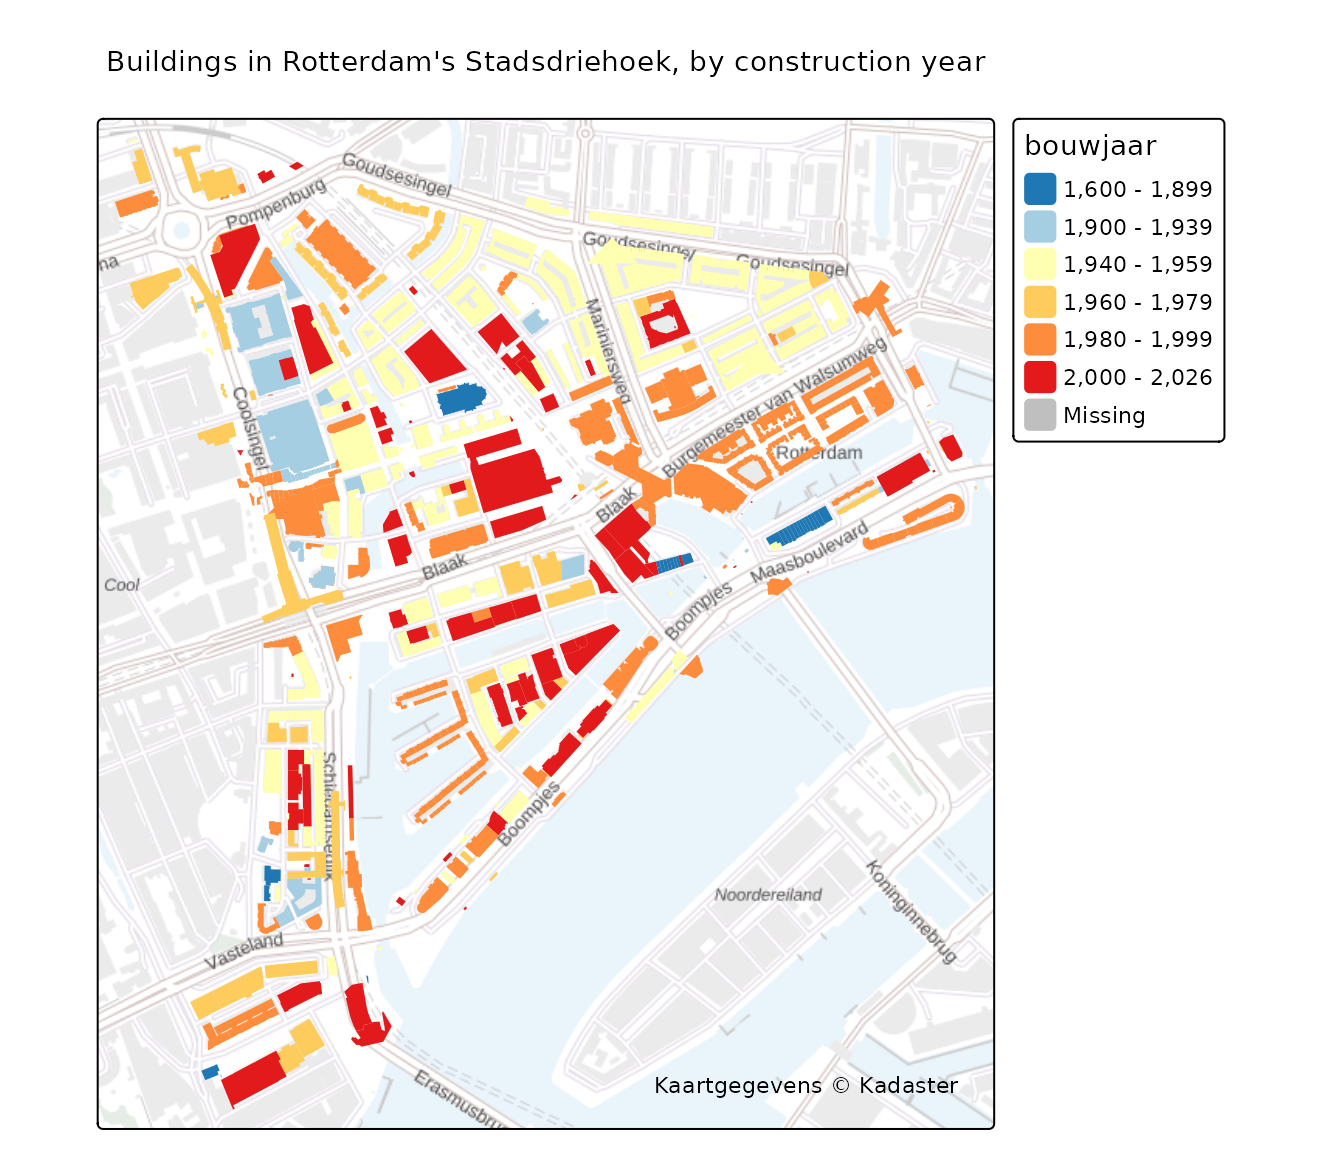
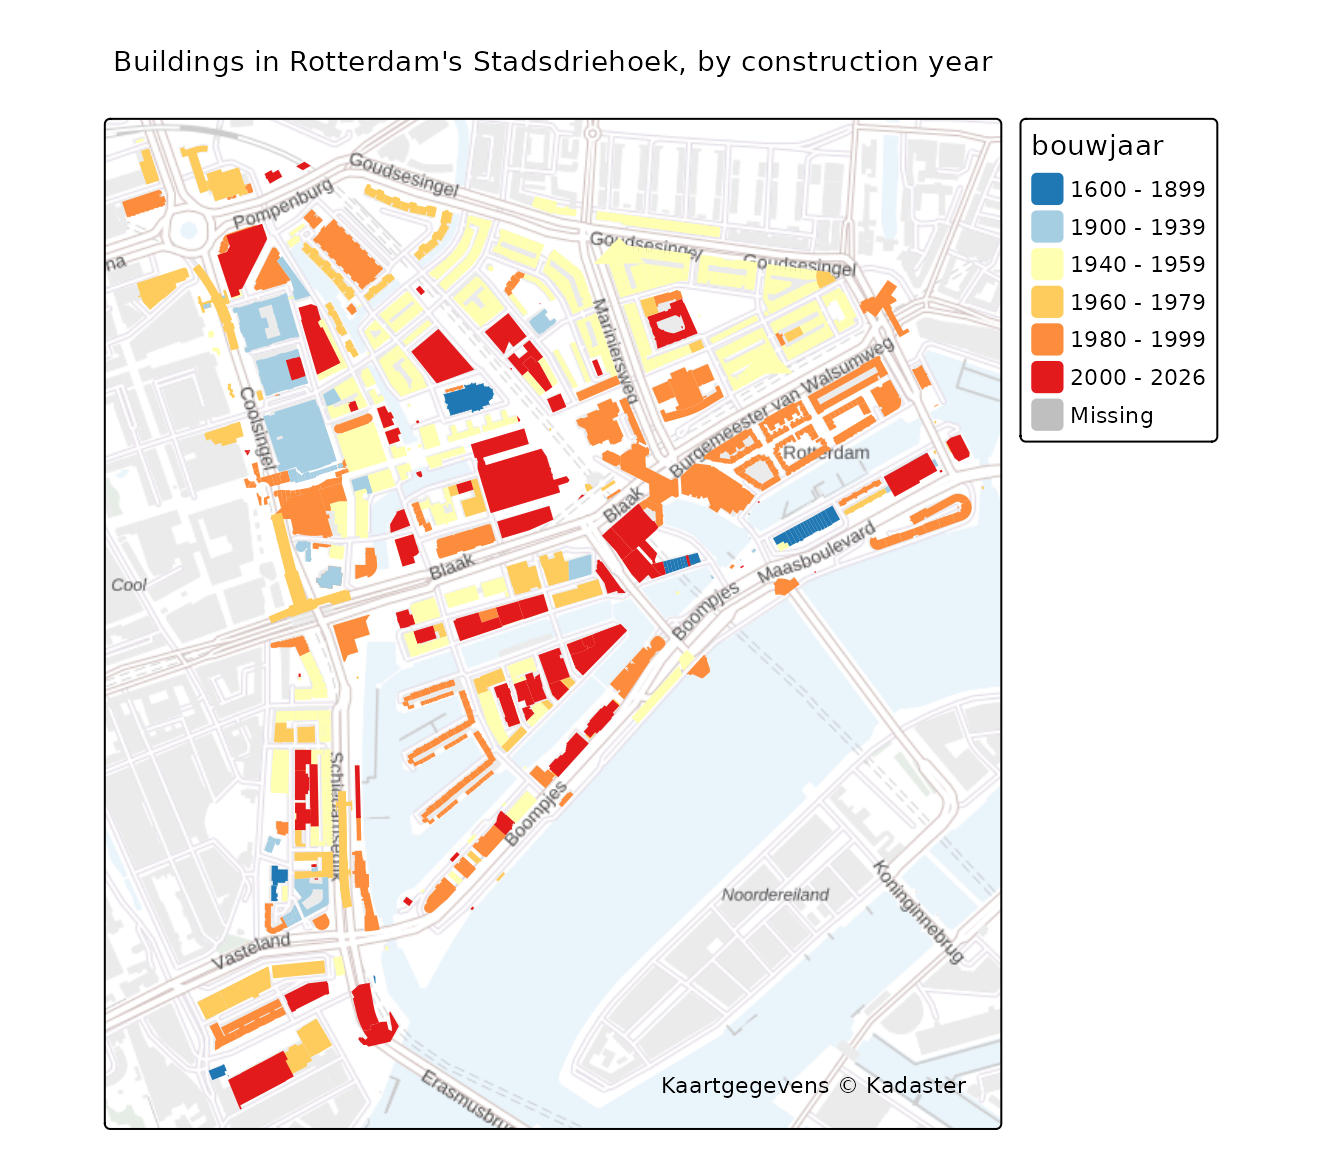
Deploying to gh-pages from @ coeneisma/pdokr@1620781350fbcb946c409823c2ba1a93d272ff82 🚀

diff --git a/reference/pdok_filter_by.html b/reference/pdok_filter_by.html
@@ -85,7 +85,8 @@ area of interest.</p></dd>
 <dt id="arg-predicate">predicate<a class="anchor" aria-label="anchor" href="#arg-predicate"></a></dt>
 <dd><p>The spatial relationship to test, one of <code>"intersects"</code>,
 <code>"within"</code>, <code>"contains"</code>, <code>"overlaps"</code>, <code>"touches"</code>, <code>"crosses"</code>,
-<code>"covers"</code>, <code>"covered_by"</code>, or <code>"disjoint"</code>.</p></dd>
+<code>"covers"</code>, <code>"covered_by"</code>, or <code>"disjoint"</code>. See the <em>Spatial predicates</em>
+section below, and <a href="https://r-spatial.github.io/sf/reference/geos_binary_pred.html" class="external-link">sf::geos_binary_pred</a> for the full definitions.</p></dd>
 
 </dl></div>
     <div class="section level2">
@@ -102,9 +103,31 @@ water-authority area, a hand-drawn polygon, or another PDOK layer.</p>
 (after matching CRS); use that if you prefer to drop down to <code>sf</code>.</p>
     </div>
     <div class="section level2">
+    <h2 id="spatial-predicates">Spatial predicates<a class="anchor" aria-label="anchor" href="#spatial-predicates"></a></h2>
+
+
+<p>The <code>predicate</code> selects <em>how</em> a feature must relate to <code>filter_geometry</code> to be
+kept. Each value calls the matching <code>sf</code> predicate function <code>sf::st_&lt;predicate&gt;()</code>
+(so <code>"within"</code> uses <code><a href="https://r-spatial.github.io/sf/reference/geos_binary_pred.html" class="external-link">sf::st_within()</a></code>, <code>"intersects"</code> uses <code><a href="https://r-spatial.github.io/sf/reference/geos_binary_pred.html" class="external-link">sf::st_intersects()</a></code>,
+and so on). The common choices:</p><ul><li><p><code>"intersects"</code> (default) — the feature touches <code>filter_geometry</code> in any way
+(overlaps, is inside, or shares a boundary). The most permissive; the usual
+choice for "everything in this area".</p></li>
+<li><p><code>"within"</code> — the feature lies <em>entirely inside</em> <code>filter_geometry</code>. Use this
+to exclude features that only stick partly into the area.</p></li>
+<li><p><code>"contains"</code> — the feature entirely <em>encloses</em> <code>filter_geometry</code> (the
+inverse of <code>"within"</code>).</p></li>
+<li><p><code>"disjoint"</code> — the feature does <em>not</em> touch <code>filter_geometry</code> at all
+(everything outside the area).</p></li>
+</ul><p><code>"overlaps"</code>, <code>"touches"</code>, <code>"crosses"</code>, <code>"covers"</code> and <code>"covered_by"</code> are the
+remaining, more specialised DE-9IM relationships. For the precise definition
+of each, see the <code>sf</code> help page <a href="https://r-spatial.github.io/sf/reference/geos_binary_pred.html" class="external-link">sf::geos_binary_pred</a> (the topic that
+documents <code>st_intersects()</code>, <code>st_within()</code>, and the rest).</p>
+    </div>
+    <div class="section level2">
     <h2 id="see-also">See also<a class="anchor" aria-label="anchor" href="#see-also"></a></h2>
-    <div class="dont-index"><p><code><a href="pdok_read.html">pdok_read()</a></code>, whose <code>filter_by</code> argument applies this filter while
-loading.</p></div>
+    <div class="dont-index"><p><a href="https://r-spatial.github.io/sf/reference/geos_binary_pred.html" class="external-link">sf::geos_binary_pred</a> for the definition of each spatial predicate;
+<code><a href="https://r-spatial.github.io/sf/reference/st_join.html" class="external-link">sf::st_filter()</a></code>, the <code>sf</code> filter this wraps; and <code><a href="pdok_read.html">pdok_read()</a></code>, whose
+<code>filter_by</code> argument applies this filter while loading.</p></div>
     </div>
 
     <div class="section level2">

diff --git a/articles/filtering-by-area.html b/articles/filtering-by-area.html
@@ -184,10 +184,17 @@ reuse the pre-filtered data or apply a different spatial predicate.</p>
 <span><span class="co">#&gt; [1] "Lauwersmeer"        "Schiermonnikoog"    "De Alde Feanen"    </span></span>
 <span><span class="co">#&gt; [4] "Drents-Friese Wold"</span></span></code></pre></div>
 <p><code><a href="../reference/pdok_filter_by.html">pdok_filter_by()</a></code> reconciles coordinate reference systems
-for you and accepts a <code>predicate</code> (<code>"intersects"</code>
-by default, but also <code>"within"</code>, <code>"contains"</code>, and
-more). The plain-<code>sf</code> equivalent, once both objects share a
-CRS, is:</p>
+for you and accepts a <code>predicate</code> that sets <em>how</em> a
+feature must relate to the area to be kept: <code>"intersects"</code>
+(the default — touching the area in any way), <code>"within"</code>
+(lying entirely inside it), <code>"contains"</code>,
+<code>"disjoint"</code> (everything outside), and the more specialised
+<code>"overlaps"</code>, <code>"touches"</code>, <code>"crosses"</code>,
+<code>"covers"</code> and <code>"covered_by"</code>. Each maps to the
+matching <code>sf</code> function
+<code>sf::st_&lt;predicate&gt;()</code>; see <a href="https://r-spatial.github.io/sf/reference/geos_binary_pred.html" class="external-link"><code>?sf::geos_binary_pred</code></a>
+for the precise definition of each. The plain-<code>sf</code>
+equivalent, once both objects share a CRS, is:</p>
 <div class="sourceCode" id="cb7"><pre class="downlit sourceCode r">
 <code class="sourceCode R"><span><span class="va">fryslan_ll</span> <span class="op">&lt;-</span> <span class="fu">sf</span><span class="fu">::</span><span class="fu"><a href="https://r-spatial.github.io/sf/reference/st_transform.html" class="external-link">st_transform</a></span><span class="op">(</span><span class="va">fryslan</span>, <span class="fu">sf</span><span class="fu">::</span><span class="fu"><a href="https://r-spatial.github.io/sf/reference/st_crs.html" class="external-link">st_crs</a></span><span class="op">(</span><span class="va">parks_in_bbox</span><span class="op">)</span><span class="op">)</span></span>
 <span><span class="va">parks_in_bbox</span><span class="op">[</span><span class="va">fryslan_ll</span>, , op <span class="op">=</span> <span class="fu">sf</span><span class="fu">::</span><span class="va"><a href="https://r-spatial.github.io/sf/reference/geos_binary_pred.html" class="external-link">st_intersects</a></span><span class="op">]</span><span class="op">$</span><span class="va">text</span></span>

diff --git a/articles/geocoding.html b/articles/geocoding.html
@@ -124,7 +124,7 @@ match.</p>
 <span><span class="co">#&gt; <span style="color: #949494;"># A tibble: 1 × 4</span></span></span>
 <span><span class="co">#&gt;   weergavenaam      type  score                                         geometry</span></span>
 <span><span class="co">#&gt;   <span style="color: #949494; font-style: italic;">&lt;chr&gt;</span>             <span style="color: #949494; font-style: italic;">&lt;chr&gt;</span> <span style="color: #949494; font-style: italic;">&lt;dbl&gt;</span>                            <span style="color: #949494; font-style: italic;">&lt;MULTILINESTRING [°]&gt;</span></span></span>
-<span><span class="co">#&gt; <span style="color: #BCBCBC;">1</span> Domplein, Utrecht weg    15.8 ((5.12193 52.09004, 5.12149 52.09093), (5.12149…</span></span></code></pre></div>
+<span><span class="co">#&gt; <span style="color: #BCBCBC;">1</span> Domplein, Utrecht weg    15.4 ((5.12193 52.09004, 5.12149 52.09093), (5.12149…</span></span></code></pre></div>
 <p>It is an ordinary <code>sf</code> object with a point geometry, ready
 to map.</p>
 <div class="sourceCode" id="cb3"><pre class="downlit sourceCode r">
@@ -137,7 +137,7 @@ to map.</p>
 <span>  <span class="fu"><a href="https://r-tmap.github.io/tmap/reference/tm_symbols.html" class="external-link">tm_dots</a></span><span class="op">(</span>fill <span class="op">=</span> <span class="st">"#E8631C"</span>, size <span class="op">=</span> <span class="fl">1</span><span class="op">)</span> <span class="op">+</span></span>
 <span>  <span class="fu"><a href="https://r-tmap.github.io/tmap/reference/tm_credits.html" class="external-link">tm_credits</a></span><span class="op">(</span><span class="st">"Kaartgegevens © Kadaster"</span><span class="op">)</span></span></code></pre></div>
 <div class="leaflet html-widget html-fill-item" id="htmlwidget-ac96cb3ee4656e2e9ec3" style="width:100%;height:576px;"></div>
-<script type="application/json" data-for="htmlwidget-ac96cb3ee4656e2e9ec3">{"x":{"options":{"crs":{"crsClass":"L.CRS.EPSG3857","code":null,"proj4def":null,"projectedBounds":null,"options":{}},"attributionControl":true},"calls":[{"method":"createMapPane","args":["tmap402",402]},{"method":"addLayersControl","args":[[],"home",{"collapsed":true,"autoZIndex":true,"position":"topleft"}]},{"method":"addTiles","args":["https://service.pdok.nl/brt/achtergrondkaart/wmts/v2_0/grijs/EPSG:3857/{z}/{x}/{y}.png",null,"https://service.pdok.nl/brt/achtergrondkaart/wmts/v2_0/grijs/EPSG:3857/{z}/{x}/{y}.png",{"minZoom":0,"maxZoom":18,"maxNativeZoom":17,"tileSize":256,"subdomains":"abc","errorTileUrl":"","tms":false,"noWrap":false,"zoomOffset":0,"zoomReverse":false,"opacity":1,"zIndex":1,"detectRetina":false,"pane":"tilePane"}]},{"method":"addCircleMarkers","args":[52.09073350167333,5.121664275700114,7,"X0000001","home",{"interactive":true,"className":"","pane":"tmap402","stroke":true,"color":"#404040","weight":0,"opacity":1,"fill":true,"fillColor":"#E8631C","fillOpacity":1},null,null,"<style> div.leaflet-popup-content {width:auto !important;}<\/style><div class=\"tmap-popup\" style=\"max-height:25em;overflow-y:auto;overflow-x:hidden;padding-right:15px;\"><table class=\"tmap-popup-table\"><thead><tr><th class=\"tmap-popup-title\" colspan=\"2\" style=\"text-align:left;\"><\/th><\/tr><\/thead><tr><td class=\"tmap-popup-label\" style=\"text-align:left; color:#888888;\"><nobr>weergavenaam<\/nobr><\/td><td class=\"tmap-popup-value\" style=\"text-align:right;\"><nobr>Domplein, Utrecht<\/nobr><\/td><\/tr><tr><td class=\"tmap-popup-label\" style=\"text-align:left; color:#888888;\"><nobr>type<\/nobr><\/td><td class=\"tmap-popup-value\" style=\"text-align:right;\"><nobr>weg<\/nobr><\/td><\/tr><tr><td class=\"tmap-popup-label\" style=\"text-align:left; color:#888888;\"><nobr>score<\/nobr><\/td><td class=\"tmap-popup-value\" style=\"text-align:right;\"><nobr>15.81<\/nobr><\/td><\/tr><tr><td class=\"tmap-popup-label\" style=\"text-align:left; color:#888888;\"><nobr>gemeentenaam<\/nobr><\/td><td class=\"tmap-popup-value\" style=\"text-align:right;\"><nobr>Utrecht<\/nobr><\/td><\/tr><tr><td class=\"tmap-popup-label\" style=\"text-align:left; color:#888888;\"><nobr>woonplaatsnaam<\/nobr><\/td><td class=\"tmap-popup-value\" style=\"text-align:right;\"><nobr>Utrecht<\/nobr><\/td><\/tr><tr><td class=\"tmap-popup-label\" style=\"text-align:left; color:#888888;\"><nobr>provincienaam<\/nobr><\/td><td class=\"tmap-popup-value\" style=\"text-align:right;\"><nobr>Utrecht<\/nobr><\/td><\/tr><tr><td class=\"tmap-popup-label\" style=\"text-align:left; color:#888888;\"><nobr>bron<\/nobr><\/td><td class=\"tmap-popup-value\" style=\"text-align:right;\"><nobr>BAG/NWB<\/nobr><\/td><\/tr><tr><td class=\"tmap-popup-label\" style=\"text-align:left; color:#888888;\"><nobr>woonplaatscode<\/nobr><\/td><td class=\"tmap-popup-value\" style=\"text-align:right;\"><nobr>3295<\/nobr><\/td><\/tr><tr><td class=\"tmap-popup-label\" style=\"text-align:left; color:#888888;\"><nobr>nwb_id<\/nobr><\/td><td class=\"tmap-popup-value\" style=\"text-align:right;\"><nobr>147402<\/nobr><\/td><\/tr><tr><td class=\"tmap-popup-label\" style=\"text-align:left; color:#888888;\"><nobr>openbareruimtetype<\/nobr><\/td><td class=\"tmap-popup-value\" style=\"text-align:right;\"><nobr>Weg<\/nobr><\/td><\/tr><tr><td class=\"tmap-popup-label\" style=\"text-align:left; color:#888888;\"><nobr>gemeentecode<\/nobr><\/td><td class=\"tmap-popup-value\" style=\"text-align:right;\"><nobr>0344<\/nobr><\/td><\/tr><tr><td class=\"tmap-popup-label\" style=\"text-align:left; color:#888888;\"><nobr>rdf_seealso<\/nobr><\/td><td class=\"tmap-popup-value\" style=\"text-align:right;\"><nobr>http://bag.basisregistraties.overheid.nl/bag/id/openbare-ruimte/0344300000003369<\/nobr><\/td><\/tr><tr><td class=\"tmap-popup-label\" style=\"text-align:left; color:#888888;\"><nobr>suggest<\/nobr><\/td><td class=\"tmap-popup-value\" style=\"text-align:right;\"><nobr>Domplein, Utrecht<\/nobr><\/td><\/tr><tr><td class=\"tmap-popup-label\" style=\"text-align:left; color:#888888;\"><nobr>straatnaam_verkort<\/nobr><\/td><td class=\"tmap-popup-value\" style=\"text-align:right;\"><nobr>Dompln<\/nobr><\/td><\/tr><tr><td class=\"tmap-popup-label\" style=\"text-align:left; color:#888888;\"><nobr>id<\/nobr><\/td><td class=\"tmap-popup-value\" style=\"text-align:right;\"><nobr>weg-c2fa8d0196aa564cd833ed066fbc314e<\/nobr><\/td><\/tr><tr><td class=\"tmap-popup-label\" style=\"text-align:left; color:#888888;\"><nobr>identificatie<\/nobr><\/td><td class=\"tmap-popup-value\" style=\"text-align:right;\"><nobr>0344300000003369<\/nobr><\/td><\/tr><tr><td class=\"tmap-popup-label\" style=\"text-align:left; color:#888888;\"><nobr>openbareruimte_id<\/nobr><\/td><td class=\"tmap-popup-value\" style=\"text-align:right;\"><nobr>0344300000003369<\/nobr><\/td><\/tr><tr><td class=\"tmap-popup-label\" style=\"text-align:left; color:#888888;\"><nobr>provinciecode<\/nobr><\/td><td class=\"tmap-popup-value\" style=\"text-align:right;\"><nobr>PV26<\/nobr><\/td><\/tr><tr><td class=\"tmap-popup-label\" style=\"text-align:left; color:#888888;\"><nobr>provincieafkorting<\/nobr><\/td><td class=\"tmap-popup-value\" style=\"text-align:right;\"><nobr>UT<\/nobr><\/td><\/tr><tr><td class=\"tmap-popup-label\" style=\"text-align:left; color:#888888;\"><nobr>straatnaam<\/nobr><\/td><td class=\"tmap-popup-value\" style=\"text-align:right;\"><nobr>Domplein<\/nobr><\/td><\/tr><tr><td class=\"tmap-popup-label\" style=\"text-align:left; color:#888888;\"><nobr>shards<\/nobr><\/td><td class=\"tmap-popup-value\" style=\"text-align:right;\"><nobr>bag<\/nobr><\/td><\/tr><tr><td class=\"tmap-popup-label\" style=\"text-align:left; color:#888888;\"><nobr>typesortering<\/nobr><\/td><td class=\"tmap-popup-value\" style=\"text-align:right;\"><nobr>3<\/nobr><\/td><\/tr><tr><td class=\"tmap-popup-label\" style=\"text-align:left; color:#888888;\"><nobr>shard<\/nobr><\/td><td class=\"tmap-popup-value\" style=\"text-align:right;\"><nobr>bag<\/nobr><\/td><\/tr><\/table><\/div>",null,null,{"interactive":false,"permanent":false,"direction":"auto","opacity":1,"offset":[0,0],"textsize":"10px","textOnly":false,"className":"","sticky":true},null]},{"method":"addTiles","args":["",null,null,{"minZoom":0,"maxZoom":18,"tileSize":256,"subdomains":"abc","errorTileUrl":"","tms":false,"noWrap":false,"zoomOffset":0,"zoomReverse":false,"opacity":1,"zIndex":1,"detectRetina":false,"attribution":"Kaartgegevens © Kadaster"}]}],"fitBounds":[51.57073350167333,4.601664275700115,52.61073350167334,5.641664275700114,[]],"limits":{"lat":[52.09073350167333,52.09073350167333],"lng":[5.121664275700114,5.121664275700114]}},"evals":[],"jsHooks":[]}</script>
+<script type="application/json" data-for="htmlwidget-ac96cb3ee4656e2e9ec3">{"x":{"options":{"crs":{"crsClass":"L.CRS.EPSG3857","code":null,"proj4def":null,"projectedBounds":null,"options":{}},"attributionControl":true},"calls":[{"method":"createMapPane","args":["tmap402",402]},{"method":"addLayersControl","args":[[],"home",{"collapsed":true,"autoZIndex":true,"position":"topleft"}]},{"method":"addTiles","args":["https://service.pdok.nl/brt/achtergrondkaart/wmts/v2_0/grijs/EPSG:3857/{z}/{x}/{y}.png",null,"https://service.pdok.nl/brt/achtergrondkaart/wmts/v2_0/grijs/EPSG:3857/{z}/{x}/{y}.png",{"minZoom":0,"maxZoom":18,"maxNativeZoom":17,"tileSize":256,"subdomains":"abc","errorTileUrl":"","tms":false,"noWrap":false,"zoomOffset":0,"zoomReverse":false,"opacity":1,"zIndex":1,"detectRetina":false,"pane":"tilePane"}]},{"method":"addCircleMarkers","args":[52.09073350167333,5.121664275700114,7,"X0000001","home",{"interactive":true,"className":"","pane":"tmap402","stroke":true,"color":"#404040","weight":0,"opacity":1,"fill":true,"fillColor":"#E8631C","fillOpacity":1},null,null,"<style> div.leaflet-popup-content {width:auto !important;}<\/style><div class=\"tmap-popup\" style=\"max-height:25em;overflow-y:auto;overflow-x:hidden;padding-right:15px;\"><table class=\"tmap-popup-table\"><thead><tr><th class=\"tmap-popup-title\" colspan=\"2\" style=\"text-align:left;\"><\/th><\/tr><\/thead><tr><td class=\"tmap-popup-label\" style=\"text-align:left; color:#888888;\"><nobr>weergavenaam<\/nobr><\/td><td class=\"tmap-popup-value\" style=\"text-align:right;\"><nobr>Domplein, Utrecht<\/nobr><\/td><\/tr><tr><td class=\"tmap-popup-label\" style=\"text-align:left; color:#888888;\"><nobr>type<\/nobr><\/td><td class=\"tmap-popup-value\" style=\"text-align:right;\"><nobr>weg<\/nobr><\/td><\/tr><tr><td class=\"tmap-popup-label\" style=\"text-align:left; color:#888888;\"><nobr>score<\/nobr><\/td><td class=\"tmap-popup-value\" style=\"text-align:right;\"><nobr>15.35<\/nobr><\/td><\/tr><tr><td class=\"tmap-popup-label\" style=\"text-align:left; color:#888888;\"><nobr>gemeentenaam<\/nobr><\/td><td class=\"tmap-popup-value\" style=\"text-align:right;\"><nobr>Utrecht<\/nobr><\/td><\/tr><tr><td class=\"tmap-popup-label\" style=\"text-align:left; color:#888888;\"><nobr>woonplaatsnaam<\/nobr><\/td><td class=\"tmap-popup-value\" style=\"text-align:right;\"><nobr>Utrecht<\/nobr><\/td><\/tr><tr><td class=\"tmap-popup-label\" style=\"text-align:left; color:#888888;\"><nobr>provincienaam<\/nobr><\/td><td class=\"tmap-popup-value\" style=\"text-align:right;\"><nobr>Utrecht<\/nobr><\/td><\/tr><tr><td class=\"tmap-popup-label\" style=\"text-align:left; color:#888888;\"><nobr>bron<\/nobr><\/td><td class=\"tmap-popup-value\" style=\"text-align:right;\"><nobr>BAG/NWB<\/nobr><\/td><\/tr><tr><td class=\"tmap-popup-label\" style=\"text-align:left; color:#888888;\"><nobr>woonplaatscode<\/nobr><\/td><td class=\"tmap-popup-value\" style=\"text-align:right;\"><nobr>3295<\/nobr><\/td><\/tr><tr><td class=\"tmap-popup-label\" style=\"text-align:left; color:#888888;\"><nobr>nwb_id<\/nobr><\/td><td class=\"tmap-popup-value\" style=\"text-align:right;\"><nobr>147402<\/nobr><\/td><\/tr><tr><td class=\"tmap-popup-label\" style=\"text-align:left; color:#888888;\"><nobr>openbareruimtetype<\/nobr><\/td><td class=\"tmap-popup-value\" style=\"text-align:right;\"><nobr>Weg<\/nobr><\/td><\/tr><tr><td class=\"tmap-popup-label\" style=\"text-align:left; color:#888888;\"><nobr>gemeentecode<\/nobr><\/td><td class=\"tmap-popup-value\" style=\"text-align:right;\"><nobr>0344<\/nobr><\/td><\/tr><tr><td class=\"tmap-popup-label\" style=\"text-align:left; color:#888888;\"><nobr>rdf_seealso<\/nobr><\/td><td class=\"tmap-popup-value\" style=\"text-align:right;\"><nobr>http://bag.basisregistraties.overheid.nl/bag/id/openbare-ruimte/0344300000003369<\/nobr><\/td><\/tr><tr><td class=\"tmap-popup-label\" style=\"text-align:left; color:#888888;\"><nobr>suggest<\/nobr><\/td><td class=\"tmap-popup-value\" style=\"text-align:right;\"><nobr>Domplein, Utrecht<\/nobr><\/td><\/tr><tr><td class=\"tmap-popup-label\" style=\"text-align:left; color:#888888;\"><nobr>straatnaam_verkort<\/nobr><\/td><td class=\"tmap-popup-value\" style=\"text-align:right;\"><nobr>Dompln<\/nobr><\/td><\/tr><tr><td class=\"tmap-popup-label\" style=\"text-align:left; color:#888888;\"><nobr>id<\/nobr><\/td><td class=\"tmap-popup-value\" style=\"text-align:right;\"><nobr>weg-c2fa8d0196aa564cd833ed066fbc314e<\/nobr><\/td><\/tr><tr><td class=\"tmap-popup-label\" style=\"text-align:left; color:#888888;\"><nobr>identificatie<\/nobr><\/td><td class=\"tmap-popup-value\" style=\"text-align:right;\"><nobr>0344300000003369<\/nobr><\/td><\/tr><tr><td class=\"tmap-popup-label\" style=\"text-align:left; color:#888888;\"><nobr>openbareruimte_id<\/nobr><\/td><td class=\"tmap-popup-value\" style=\"text-align:right;\"><nobr>0344300000003369<\/nobr><\/td><\/tr><tr><td class=\"tmap-popup-label\" style=\"text-align:left; color:#888888;\"><nobr>provinciecode<\/nobr><\/td><td class=\"tmap-popup-value\" style=\"text-align:right;\"><nobr>PV26<\/nobr><\/td><\/tr><tr><td class=\"tmap-popup-label\" style=\"text-align:left; color:#888888;\"><nobr>provincieafkorting<\/nobr><\/td><td class=\"tmap-popup-value\" style=\"text-align:right;\"><nobr>UT<\/nobr><\/td><\/tr><tr><td class=\"tmap-popup-label\" style=\"text-align:left; color:#888888;\"><nobr>straatnaam<\/nobr><\/td><td class=\"tmap-popup-value\" style=\"text-align:right;\"><nobr>Domplein<\/nobr><\/td><\/tr><tr><td class=\"tmap-popup-label\" style=\"text-align:left; color:#888888;\"><nobr>shards<\/nobr><\/td><td class=\"tmap-popup-value\" style=\"text-align:right;\"><nobr>bag<\/nobr><\/td><\/tr><tr><td class=\"tmap-popup-label\" style=\"text-align:left; color:#888888;\"><nobr>typesortering<\/nobr><\/td><td class=\"tmap-popup-value\" style=\"text-align:right;\"><nobr>3<\/nobr><\/td><\/tr><tr><td class=\"tmap-popup-label\" style=\"text-align:left; color:#888888;\"><nobr>shard<\/nobr><\/td><td class=\"tmap-popup-value\" style=\"text-align:right;\"><nobr>bag<\/nobr><\/td><\/tr><\/table><\/div>",null,null,{"interactive":false,"permanent":false,"direction":"auto","opacity":1,"offset":[0,0],"textsize":"10px","textOnly":false,"className":"","sticky":true},null]},{"method":"addTiles","args":["",null,null,{"minZoom":0,"maxZoom":18,"tileSize":256,"subdomains":"abc","errorTileUrl":"","tms":false,"noWrap":false,"zoomOffset":0,"zoomReverse":false,"opacity":1,"zIndex":1,"detectRetina":false,"attribution":"Kaartgegevens © Kadaster"}]}],"fitBounds":[51.57073350167333,4.601664275700115,52.61073350167334,5.641664275700114,[]],"limits":{"lat":[52.09073350167333,52.09073350167333],"lng":[5.121664275700114,5.121664275700114]}},"evals":[],"jsHooks":[]}</script>
 </div>
 <div class="section level2">
 <h2 id="search-levels-the-type-argument">Search levels: the <code>type</code> argument<a class="anchor" aria-label="anchor" href="#search-levels-the-type-argument"></a>
@@ -221,11 +221,11 @@ That is convenient, but a single name often exists at several levels —
 <span><span class="co">#&gt; <span style="color: #949494;"># A tibble: 5 × 4</span></span></span>
 <span><span class="co">#&gt;   weergavenaam                  type       score                        geometry</span></span>
 <span><span class="co">#&gt;   <span style="color: #949494; font-style: italic;">&lt;chr&gt;</span>                         <span style="color: #949494; font-style: italic;">&lt;chr&gt;</span>      <span style="color: #949494; font-style: italic;">&lt;dbl&gt;</span>              <span style="color: #949494; font-style: italic;">&lt;MULTIPOLYGON [°]&gt;</span></span></span>
-<span><span class="co">#&gt; <span style="color: #BCBCBC;">1</span> Gemeente Utrecht              gemeente   10.2  (((5.01801 52.06222, 5.01707 5…</span></span>
-<span><span class="co">#&gt; <span style="color: #BCBCBC;">2</span> Utrecht, Utrecht, Utrecht     woonplaats  9.25 (((5.01514 52.11395, 5.01553 5…</span></span>
-<span><span class="co">#&gt; <span style="color: #BCBCBC;">3</span> Haarzuilens, Utrecht, Utrecht woonplaats  9.02 (((4.97775 52.13057, 4.97394 5…</span></span>
-<span><span class="co">#&gt; <span style="color: #BCBCBC;">4</span> Vleuten, Utrecht, Utrecht     woonplaats  9.02 (((4.98085 52.10015, 4.98933 5…</span></span>
-<span><span class="co">#&gt; <span style="color: #BCBCBC;">5</span> De Meern, Utrecht, Utrecht    woonplaats  8.95 (((5.0429 52.08946, 5.04283 52…</span></span></code></pre></div>
+<span><span class="co">#&gt; <span style="color: #BCBCBC;">1</span> Gemeente Utrecht              gemeente    9.78 (((5.01801 52.06222, 5.01707 5…</span></span>
+<span><span class="co">#&gt; <span style="color: #BCBCBC;">2</span> Utrecht, Utrecht, Utrecht     woonplaats  8.82 (((5.01514 52.11395, 5.01553 5…</span></span>
+<span><span class="co">#&gt; <span style="color: #BCBCBC;">3</span> Haarzuilens, Utrecht, Utrecht woonplaats  8.59 (((4.97775 52.13057, 4.97394 5…</span></span>
+<span><span class="co">#&gt; <span style="color: #BCBCBC;">4</span> Vleuten, Utrecht, Utrecht     woonplaats  8.59 (((4.98085 52.10015, 4.98933 5…</span></span>
+<span><span class="co">#&gt; <span style="color: #BCBCBC;">5</span> De Meern, Utrecht, Utrecht    woonplaats  8.52 (((5.0429 52.08946, 5.04283 52…</span></span></code></pre></div>
 <p>Pass <code>type</code> to pin down exactly which level you mean. The
 same query then returns very different geometry:</p>
 <div class="sourceCode" id="cb5"><pre class="downlit sourceCode r">

diff --git a/reference/pdok_read.html b/reference/pdok_read.html
@@ -102,7 +102,9 @@ address falls in).</p></dd>
 
 <dt id="arg-predicate">predicate<a class="anchor" aria-label="anchor" href="#arg-predicate"></a></dt>
 <dd><p>Spatial predicate for <code>filter_by</code>, passed to
-<code><a href="pdok_filter_by.html">pdok_filter_by()</a></code> (default <code>"intersects"</code>).</p></dd>
+<code><a href="pdok_filter_by.html">pdok_filter_by()</a></code> (default <code>"intersects"</code>). See its <em>Spatial predicates</em>
+section for the available options, and <a href="https://r-spatial.github.io/sf/reference/geos_binary_pred.html" class="external-link">sf::geos_binary_pred</a> for their
+definitions.</p></dd>
 
 
 <dt id="arg-datetime">datetime<a class="anchor" aria-label="anchor" href="#arg-datetime"></a></dt>

diff --git a/reference/pdok_geocode.html b/reference/pdok_geocode.html
@@ -144,7 +144,7 @@ zero-row <code>sf</code> is returned (with a warning) when nothing matches.</p>
 <span class="r-out co"><span class="r-pr">#&gt;</span> <span style="color: #949494;"># A tibble: 1 × 16</span></span>
 <span class="r-out co"><span class="r-pr">#&gt;</span>   weergavenaam     type     score gemeentenaam provincienaam bron  identificatie</span>
 <span class="r-out co"><span class="r-pr">#&gt;</span>   <span style="color: #949494; font-style: italic;">&lt;chr&gt;</span>            <span style="color: #949494; font-style: italic;">&lt;chr&gt;</span>    <span style="color: #949494; font-style: italic;">&lt;dbl&gt;</span> <span style="color: #949494; font-style: italic;">&lt;chr&gt;</span>        <span style="color: #949494; font-style: italic;">&lt;chr&gt;</span>         <span style="color: #949494; font-style: italic;">&lt;chr&gt;</span> <span style="color: #949494; font-style: italic;">&lt;chr&gt;</span>        </span>
-<span class="r-out co"><span class="r-pr">#&gt;</span> <span style="color: #BCBCBC;">1</span> Gemeente De Bilt gemeente  13.9 De Bilt      Utrecht       Best… 0310         </span>
+<span class="r-out co"><span class="r-pr">#&gt;</span> <span style="color: #BCBCBC;">1</span> Gemeente De Bilt gemeente  13.4 De Bilt      Utrecht       Best… 0310         </span>
 <span class="r-out co"><span class="r-pr">#&gt;</span> <span style="color: #949494;"># ℹ 9 more variables: provinciecode &lt;chr&gt;, gemeentecode &lt;chr&gt;, suggest &lt;chr&gt;,</span></span>
 <span class="r-out co"><span class="r-pr">#&gt;</span> <span style="color: #949494;">#   provincieafkorting &lt;chr&gt;, id &lt;chr&gt;, shards &lt;chr&gt;, typesortering &lt;chr&gt;,</span></span>
 <span class="r-out co"><span class="r-pr">#&gt;</span> <span style="color: #949494;">#   shard &lt;chr&gt;, geometry &lt;MULTIPOLYGON [°]&gt;</span></span>

diff --git a/reference/pdok_filter_by.md b/reference/pdok_filter_by.md
@@ -28,7 +28,10 @@ pdok_filter_by(data, filter_geometry, predicate = "intersects")
 
   The spatial relationship to test, one of `"intersects"`, `"within"`,
   `"contains"`, `"overlaps"`, `"touches"`, `"crosses"`, `"covers"`,
-  `"covered_by"`, or `"disjoint"`.
+  `"covered_by"`, or `"disjoint"`. See the *Spatial predicates* section
+  below, and
+  [sf::geos_binary_pred](https://r-spatial.github.io/sf/reference/geos_binary_pred.html)
+  for the full definitions.
 
 ## Value
 
@@ -47,8 +50,42 @@ The plain-`sf` equivalent is
 `data[filter_geometry, , op = sf::st_intersects]` (after matching CRS);
 use that if you prefer to drop down to `sf`.
 
+## Spatial predicates
+
+The `predicate` selects *how* a feature must relate to `filter_geometry`
+to be kept. Each value calls the matching `sf` predicate function
+`sf::st_<predicate>()` (so `"within"` uses
+[`sf::st_within()`](https://r-spatial.github.io/sf/reference/geos_binary_pred.html),
+`"intersects"` uses
+[`sf::st_intersects()`](https://r-spatial.github.io/sf/reference/geos_binary_pred.html),
+and so on). The common choices:
+
+- `"intersects"` (default) — the feature touches `filter_geometry` in
+  any way (overlaps, is inside, or shares a boundary). The most
+  permissive; the usual choice for "everything in this area".
+
+- `"within"` — the feature lies *entirely inside* `filter_geometry`. Use
+  this to exclude features that only stick partly into the area.
+
+- `"contains"` — the feature entirely *encloses* `filter_geometry` (the
+  inverse of `"within"`).
+
+- `"disjoint"` — the feature does *not* touch `filter_geometry` at all
+  (everything outside the area).
+
+`"overlaps"`, `"touches"`, `"crosses"`, `"covers"` and `"covered_by"`
+are the remaining, more specialised DE-9IM relationships. For the
+precise definition of each, see the `sf` help page
+[sf::geos_binary_pred](https://r-spatial.github.io/sf/reference/geos_binary_pred.html)
+(the topic that documents `st_intersects()`, `st_within()`, and the
+rest).
+
 ## See also
 
+[sf::geos_binary_pred](https://r-spatial.github.io/sf/reference/geos_binary_pred.html)
+for the definition of each spatial predicate;
+[`sf::st_filter()`](https://r-spatial.github.io/sf/reference/st_join.html),
+the `sf` filter this wraps; and
 [`pdok_read()`](https://coeneisma.github.io/pdokr/reference/pdok_read.md),
 whose `filter_by` argument applies this filter while loading.
 

diff --git a/articles/duo-schools.md b/articles/duo-schools.md
@@ -59,7 +59,7 @@ The `onderwijslocaties` resource lists every location where education
 
 locations <- read_duo("a7e3f323-6e46-4dca-a834-369d9d520aa8")
 nrow(locations)
-#> [1] 13601
+#> [1] 13605
 ```
 
 There is a catch: these are *possible* education locations, not
@@ -102,12 +102,12 @@ link <- relations |>
 # inner join drops every location without a recognised institution
 schools <- inner_join(locations, link, by = "ONDERWIJSLOCATIECODE")
 nrow(schools)
-#> [1] 9677
+#> [1] 9675
 count(schools, sector)
 #>             sector    n
 #> 1 Higher education   62
-#> 2          Primary 7228
-#> 3        Secondary 1476
+#> 2          Primary 7229
+#> 3        Secondary 1473
 #> 4          Special  708
 #> 5 Vocational (MBO)  203
 ```
@@ -180,11 +180,10 @@ binnenstad <- filter(wijken, grepl("Binnenstad", statnaam))
 centre_schools <- pdok_filter_by(utrecht_schools, binnenstad, predicate = "within")
 
 panden <- pdok_read("kadaster/bag", "pand", filter_by = binnenstad)
-#> ⠙ Downloading PDOK features: 964 fetched
-#> ⠹ Downloading PDOK features: 1460 fetched
-#> ⠸ Downloading PDOK features: 2785 fetched
-#> ⠼ Downloading PDOK features: 5090 fetched
-#> ⠴ Downloading PDOK features: 6026 fetched
+#> ⠙ Downloading PDOK features: 1558 fetched
+#> ⠹ Downloading PDOK features: 3027 fetched
+#> ⠸ Downloading PDOK features: 5131 fetched
+#> ⠼ Downloading PDOK features: 6026 fetched
 school_buildings <- panden |>
   st_filter(centre_schools) |>
   st_join(select(centre_schools, school, sector, STRAATNAAM))

diff --git a/articles/bag-buildings.md b/articles/bag-buildings.md
@@ -51,9 +51,8 @@ pre-filters at the server and clips to the exact shape.
 ``` r
 
 buildings <- pdok_read("kadaster/bag", "pand", filter_by = stadsdriehoek)
-#> ⠙ Downloading PDOK features: 363 fetched
-#> ⠹ Downloading PDOK features: 808 fetched
-#> ⠹ Downloading PDOK features: 1022 fetched
+#> ⠙ Downloading PDOK features: 808 fetched
+#> ⠙ Downloading PDOK features: 1022 fetched
 nrow(buildings)
 #> [1] 1022
 ```
@@ -84,7 +83,9 @@ tmap_mode("plot")
 
 era_scale <- tm_scale_intervals(
   breaks = c(1600, 1900, 1940, 1960, 1980, 2000, 2026),
-  values = c("#1f78b4", "#a6cee3", "#ffffb2", "#fecc5c", "#fd8d3c", "#e31a1c")
+  values = c("#1f78b4", "#a6cee3", "#ffffb2", "#fecc5c", "#fd8d3c", "#e31a1c"),
+  # Years are not thousands: drop the "." group separator (1.900 -> 1900).
+  label.format = tm_label_format(big.mark = "")
 )
 
 tm_basemap(pdok_basemap("grijs")) +
@@ -109,7 +110,9 @@ tmap_mode("view")
 tm_basemap(pdok_basemap("grijs")) +
   tm_shape(buildings) +
   tm_polygons(fill = "bouwjaar", fill.scale = era_scale, col = NULL,
-              id = "identificatie", popup = tm_popup(vars = c("Built" = "bouwjaar"))) +
+              id = "identificatie",
+              popup = tm_popup(vars = c("Built" = "bouwjaar"),
+                               format = tm_label_format(big.mark = ""))) +
   tm_credits("Kaartgegevens © Kadaster")
 ```
 

diff --git a/articles/filtering-by-area.md b/articles/filtering-by-area.md
@@ -115,9 +115,15 @@ pdok_filter_by(parks_in_bbox, fryslan)$text
 
 [`pdok_filter_by()`](https://coeneisma.github.io/pdokr/reference/pdok_filter_by.md)
 reconciles coordinate reference systems for you and accepts a
-`predicate` (`"intersects"` by default, but also `"within"`,
-`"contains"`, and more). The plain-`sf` equivalent, once both objects
-share a CRS, is:
+`predicate` that sets *how* a feature must relate to the area to be
+kept: `"intersects"` (the default — touching the area in any way),
+`"within"` (lying entirely inside it), `"contains"`, `"disjoint"`
+(everything outside), and the more specialised `"overlaps"`,
+`"touches"`, `"crosses"`, `"covers"` and `"covered_by"`. Each maps to
+the matching `sf` function `sf::st_<predicate>()`; see
+[`?sf::geos_binary_pred`](https://r-spatial.github.io/sf/reference/geos_binary_pred.html)
+for the precise definition of each. The plain-`sf` equivalent, once both
+objects share a CRS, is:
 
 ``` r
 

diff --git a/articles/geocoding.md b/articles/geocoding.md
@@ -40,7 +40,7 @@ home |> select(weergavenaam, type, score)
 #> # A tibble: 1 × 4
 #>   weergavenaam      type  score                                         geometry
 #>   <chr>             <chr> <dbl>                            <MULTILINESTRING [°]>
-#> 1 Domplein, Utrecht weg    15.8 ((5.12193 52.09004, 5.12149 52.09093), (5.12149…
+#> 1 Domplein, Utrecht weg    15.4 ((5.12193 52.09004, 5.12149 52.09093), (5.12149…
 ```
 
 It is an ordinary `sf` object with a point geometry, ready to map.
@@ -94,11 +94,11 @@ pdok_geocode("Utrecht", limit = 5) |>
 #> # A tibble: 5 × 4
 #>   weergavenaam                  type       score                        geometry
 #>   <chr>                         <chr>      <dbl>              <MULTIPOLYGON [°]>
-#> 1 Gemeente Utrecht              gemeente   10.2  (((5.01801 52.06222, 5.01707 5…
-#> 2 Utrecht, Utrecht, Utrecht     woonplaats  9.25 (((5.01514 52.11395, 5.01553 5…
-#> 3 Haarzuilens, Utrecht, Utrecht woonplaats  9.02 (((4.97775 52.13057, 4.97394 5…
-#> 4 Vleuten, Utrecht, Utrecht     woonplaats  9.02 (((4.98085 52.10015, 4.98933 5…
-#> 5 De Meern, Utrecht, Utrecht    woonplaats  8.95 (((5.0429 52.08946, 5.04283 52…
+#> 1 Gemeente Utrecht              gemeente    9.78 (((5.01801 52.06222, 5.01707 5…
+#> 2 Utrecht, Utrecht, Utrecht     woonplaats  8.82 (((5.01514 52.11395, 5.01553 5…
+#> 3 Haarzuilens, Utrecht, Utrecht woonplaats  8.59 (((4.97775 52.13057, 4.97394 5…
+#> 4 Vleuten, Utrecht, Utrecht     woonplaats  8.59 (((4.98085 52.10015, 4.98933 5…
+#> 5 De Meern, Utrecht, Utrecht    woonplaats  8.52 (((5.0429 52.08946, 5.04283 52…
 ```
 
 Pass `type` to pin down exactly which level you mean. The same query

diff --git a/reference/pdok_read.md b/reference/pdok_read.md
@@ -52,7 +52,10 @@ pdok_read(
 
   Spatial predicate for `filter_by`, passed to
   [`pdok_filter_by()`](https://coeneisma.github.io/pdokr/reference/pdok_filter_by.md)
-  (default `"intersects"`).
+  (default `"intersects"`). See its *Spatial predicates* section for the
+  available options, and
+  [sf::geos_binary_pred](https://r-spatial.github.io/sf/reference/geos_binary_pred.html)
+  for their definitions.
 
 - datetime:
 

diff --git a/reference/pdok_geocode.md b/reference/pdok_geocode.md
@@ -86,7 +86,7 @@ pdok_geocode("De Bilt", type = "gemeente")
 #> # A tibble: 1 × 16
 #>   weergavenaam     type     score gemeentenaam provincienaam bron  identificatie
 #>   <chr>            <chr>    <dbl> <chr>        <chr>         <chr> <chr>        
-#> 1 Gemeente De Bilt gemeente  13.9 De Bilt      Utrecht       Best… 0310         
+#> 1 Gemeente De Bilt gemeente  13.4 De Bilt      Utrecht       Best… 0310         
 #> # ℹ 9 more variables: provinciecode <chr>, gemeentecode <chr>, suggest <chr>,
 #> #   provincieafkorting <chr>, id <chr>, shards <chr>, typesortering <chr>,
 #> #   shard <chr>, geometry <MULTIPOLYGON [°]>